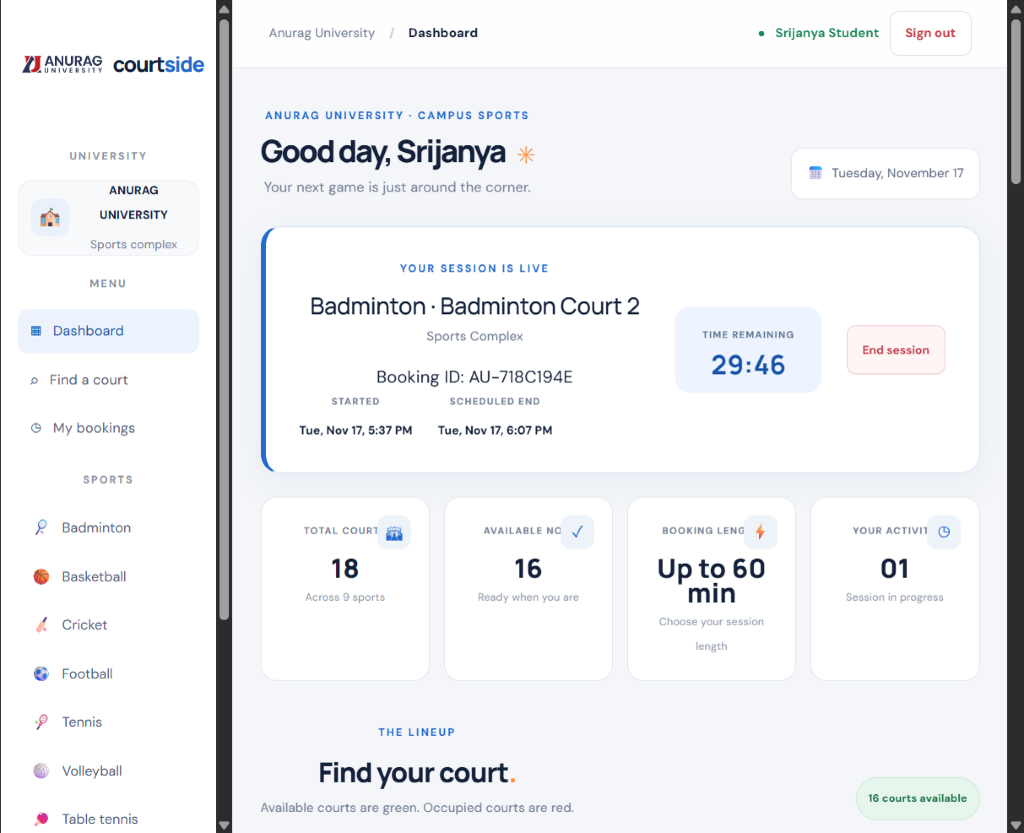
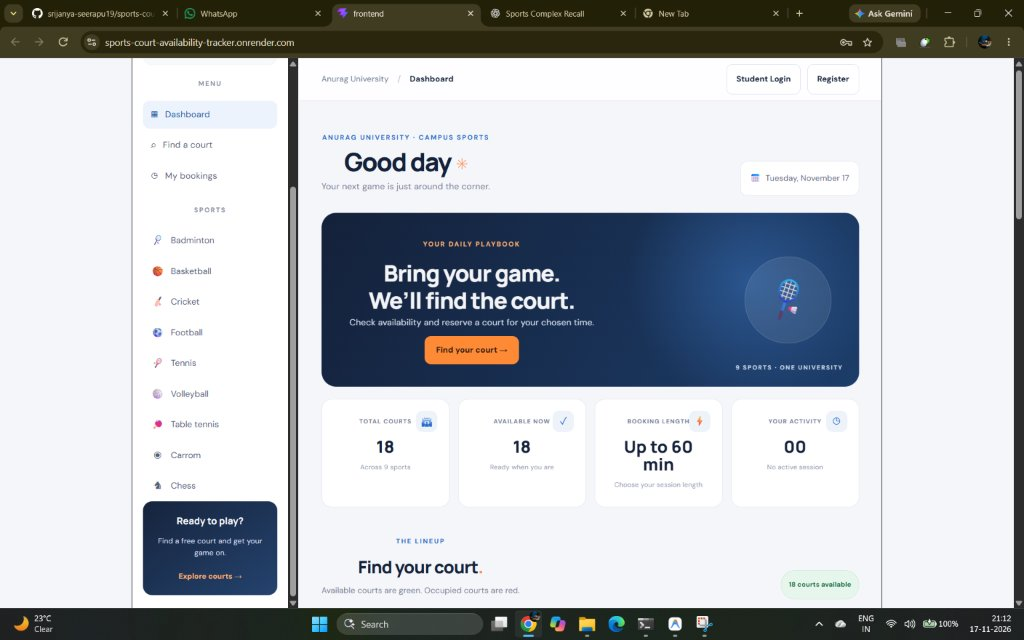
docs: update screenshots, simplify deployment section and fix license details

diff --git a/README.md b/README.md
@@ -1,4 +1,4 @@
-# 🏟 Sports Complex Availability & Booking System
+# 🏟 Sports Complex Availability & Booking System
 
 > **Discover. Check Real-Time Availability. Book Your Game.**
 
@@ -35,7 +35,7 @@ A full-stack, enterprise-grade web application designed to simplify sports facil
 - [Complete Folder Structure](#-complete-folder-structure)
 - [Local Installation & Setup](#-local-installation--setup)
 - [REST API Reference](#-rest-api-reference)
-- [Deployment Guide](#-deployment-guide)
+- [Deployment](#-deployment)
 - [Testing & Quality Assurance](#-testing--quality-assurance)
 - [Future Enhancements](#-future-enhancements)
 - [License](#-license)
@@ -93,22 +93,15 @@ Manual sports complex scheduling creates significant administrative overhead:
 
 ## 📸 Application Screenshots
 
-### 1. Dashboard & Court Lineup
-*Live view of the university sports complex lineup, real-time availability counters, sport filter tabs, and duration selector.*
-![Homepage and Lineup](screenshots/homepage.png)
+### 1. Dashboard & Sports Court Lineup
+*Homepage showing all 9 sports categories, real-time court availability, sport filter tabs, and navigation.*
+![Dashboard](screenshots/homepage.png)
 
-### 2. Live Active Session & Real-Time Countdown
-*Real-time session card displaying sport details, booking ID, time window, and live ticking countdown with animated progress bar.*
-![Availability and Countdown](screenshots/availability.png)
+### 2. Live Active Session with Real-Time Countdown
+*Active booking view showing Badminton Court 1 with live 59:38 countdown timer, session ID, cancel button, and progress bar.*
+![Active Booking](screenshots/active-booking.png)
 
-### 3. Booking Confirmation & Cancellation Workflow
-*Branded modal for slot confirmation and instant early cancellation with seamless court re-allocation.*
-![Booking Flow](screenshots/booking.png)
-
-### 4. Responsive Mobile Experience
-*Mobile-first viewport tested on Android and iOS devices for on-the-go court reservations.*
-| Real-Time Mobile View | Mobile Booking History |
-| :---: | :---: |
+---: | :---: |
 | <img src="screenshots/mobile_view_1.jpg" width="300" alt="Mobile Lineup"/> | <img src="screenshots/mobile_view_2.jpg" width="300" alt="Mobile Booking"/> |
 
 ---
@@ -260,13 +253,9 @@ sports-complex-booking-system/
 │   ├── sample-data.sql            # Seed courts across 9 sports & demo users
 │   └── relationships.md           # Foreign key constraints & check rules
 │
-├── screenshots/                   # Verified Application Capture Gallery
-│   ├── homepage.png
-│   ├── facilities.png
-│   ├── availability.png
-│   ├── booking.png
-│   ├── mobile_view_1.jpg
-│   └── mobile_view_2.jpg
+├── screenshots/                   # Application Capture Gallery
+│   ├── homepage.png               # Dashboard and court lineup view
+│   └── active-booking.png         # Live session with countdown timer
 │
 └── tests/                         # Quality Assurance
     └── test-plan.md               # Test matrix, unit & E2E verification
@@ -333,28 +322,14 @@ Open `http://localhost:5173` in your browser.
 
 ---
 
-## ☁ Deployment Guide
+## ☁ Deployment
 
-### Deploy Backend to Render (Free Web Service)
-1. In the [Render Dashboard](https://dashboard.render.com), click **New → Web Service**.
-2. Connect this repository and set **Root Directory** to `backend`.
-3. Set **Runtime** to `Java`.
-4. Build Command: `./mvnw clean package -DskipTests`
-5. Start Command: `java -jar target/sports-complex-backend-1.0.0.jar`
-6. Add Environment Variables:
-   - `DB_URL`: `jdbc:mysql://<host>:3306/<database>?sslMode=VERIFY_IDENTITY`
-   - `DB_USERNAME`: `<username>`
-   - `DB_PASSWORD`: `<password>`
-   - `COOKIE_SECURE`: `true`
-   - `COOKIE_SAME_SITE`: `none`
+Both the frontend and backend are deployed on **[Render](https://render.com)**:
 
-### Deploy Frontend to Render / Vercel (Free Static Site)
-1. Create a **New Static Site** on Render or Vercel.
-2. Set **Root Directory** to `frontend`.
-3. Build Command: `npm run build`
-4. Publish Directory: `dist`
-5. Add Environment Variable:
-   - `VITE_API_URL`: `https://sports-court-availability-backend.onrender.com/api`
+| Component | Live URL |
+| :--- | :--- |
+| **Frontend** | [sports-court-availability-tracker.onrender.com](https://sports-court-availability-tracker.onrender.com) |
+| **Backend API** | [sports-court-availability-backend.onrender.com/api](https://sports-court-availability-backend.onrender.com/api) |
 
 ---
 
@@ -368,7 +343,8 @@ Open `http://localhost:5173` in your browser.
 ---
 
 ## 📄 License
-This project is licensed under the [MIT License](LICENSE) - feel free to use and adapt it for academic and professional portfolios.
+This project is licensed under the [MIT License](LICENSE).
 
 **Author**: [Srijanya Seerapu](https://github.com/srijanya-seerapu19)  
-**Institution**: Anurag University · Department of Physical Education & Sports
+**Email**: srijanyaseerapu@gmail.com  
+**Institution**: Anurag University · Department of Electronics and Communication Engineering
